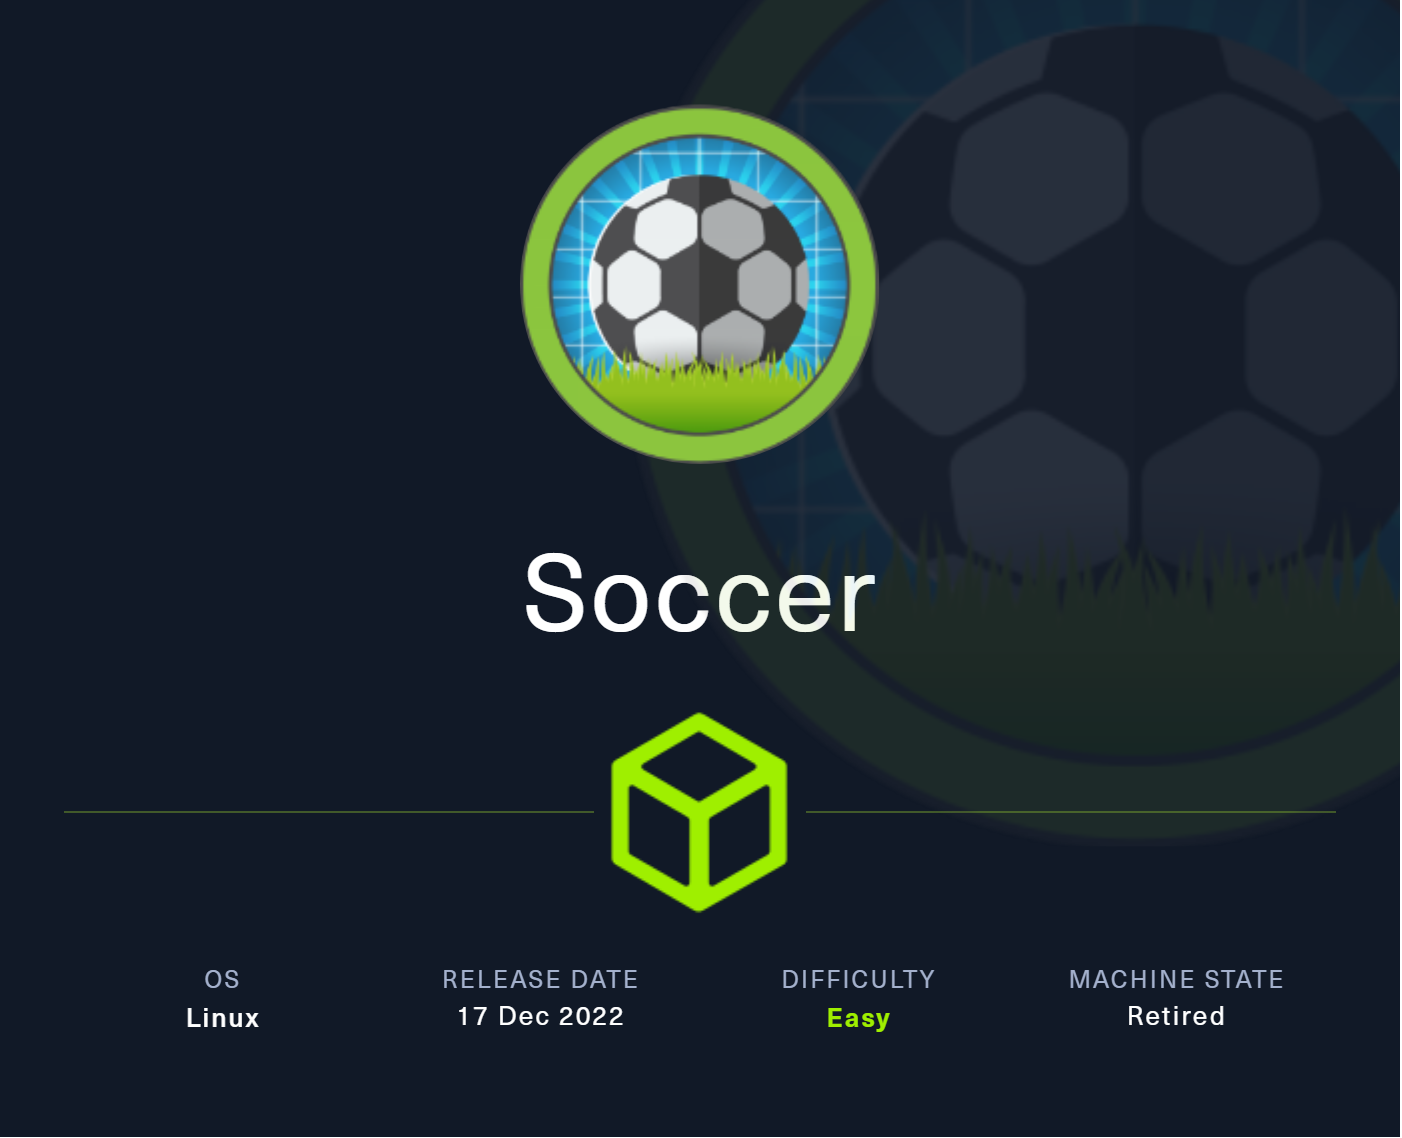
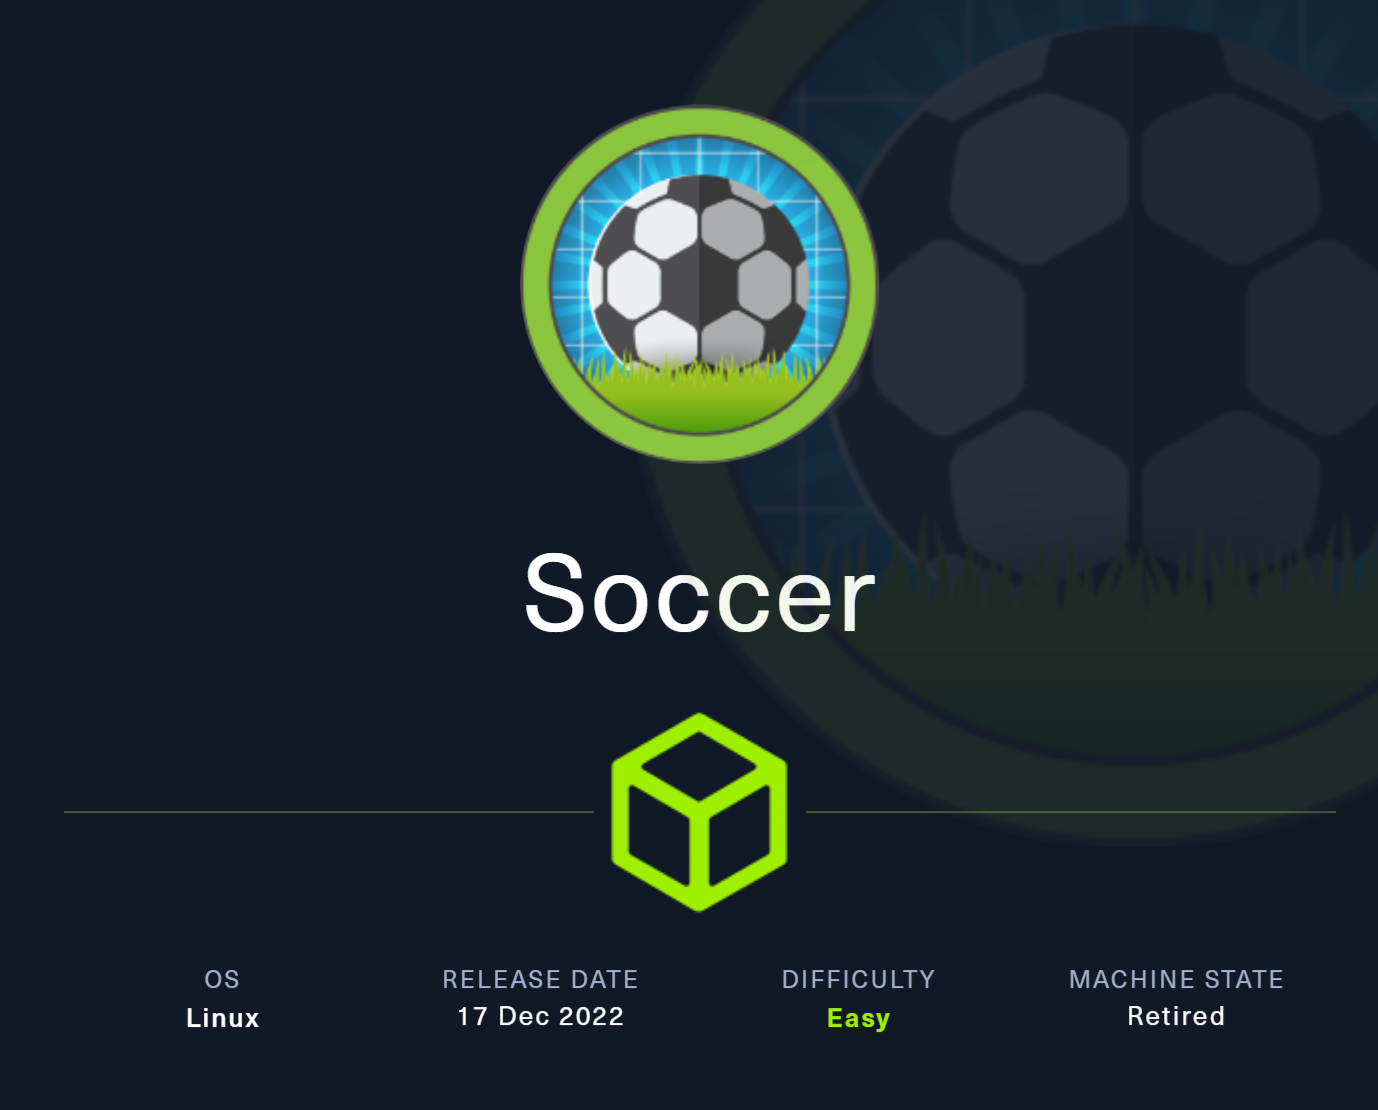
removing white space from image

diff --git a/_posts/2025-05-26-HTB-Active.md b/_posts/2025-05-26-HTB-Active.md
@@ -63,5 +63,12 @@ Like we did in HTB-Forest, we can try using Impacket's GetNPUsers.py to see if t
 ```
 GetNPUsers.py -dc-ip 10.10.10.100 -request 'active.htb/'
 
+[-] Error in searchRequest -> operationsError: 000004DC: LdapErr: DSID-0C09075A, comment: In order to perform this operation a successful bind must be completed on the connection., data 0, v1db1
+```
+Unfortunately we see that the DC does not allow for anonymous binding.
+
+Next, we try testing against the SMB service. 
+
+
 
 
